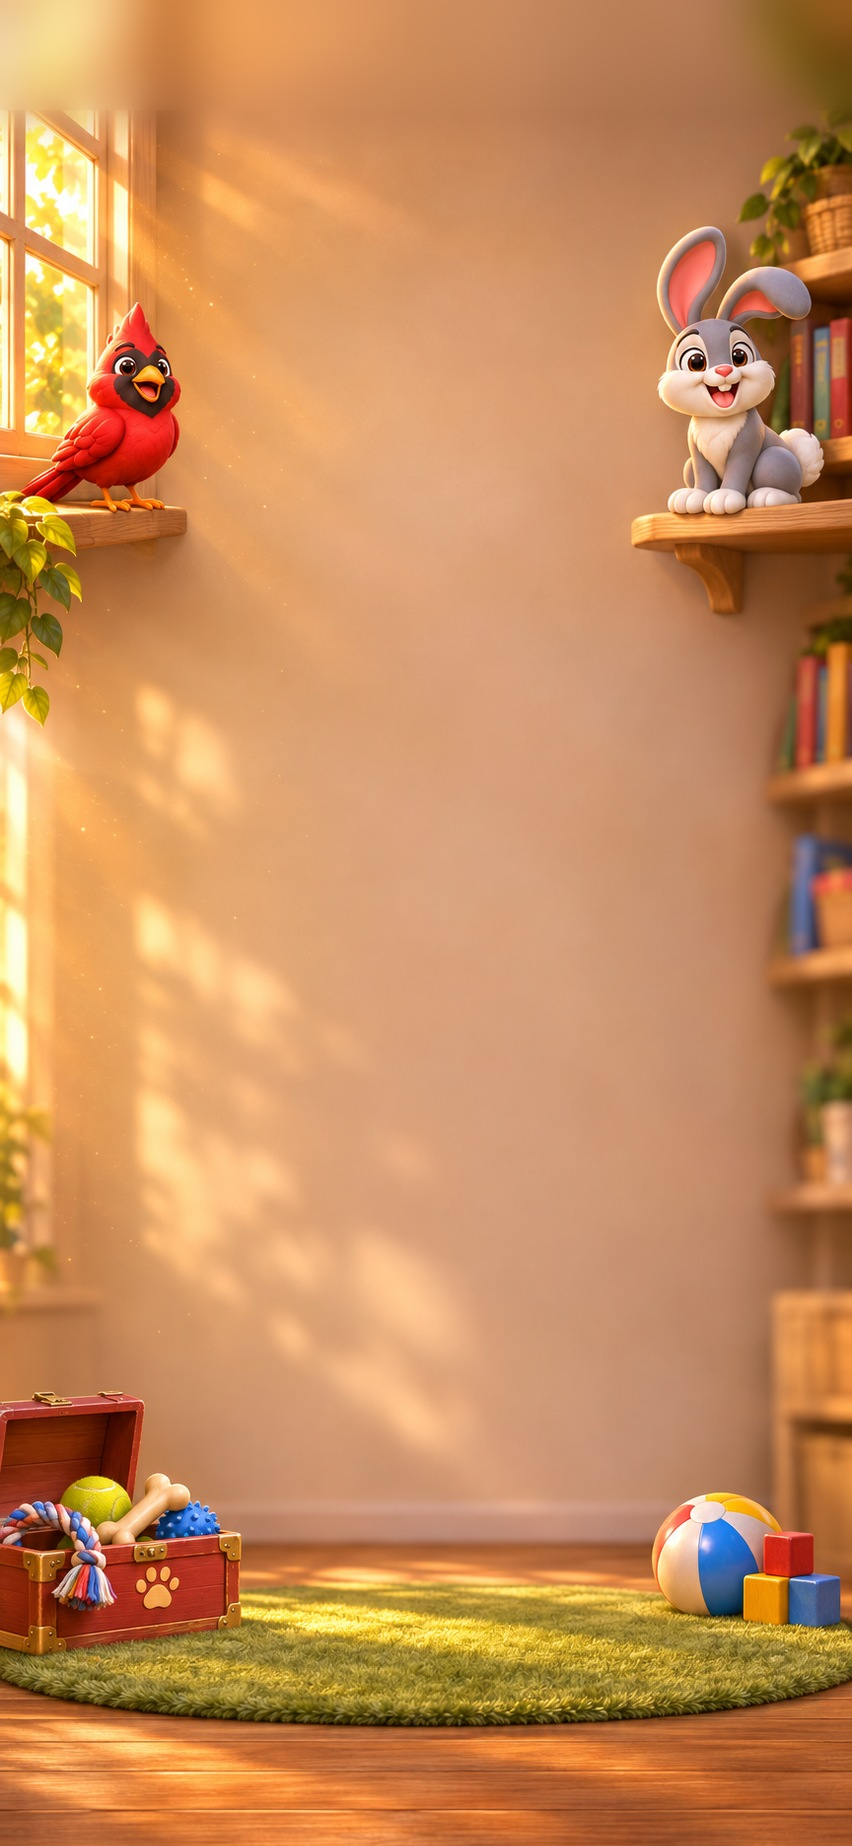
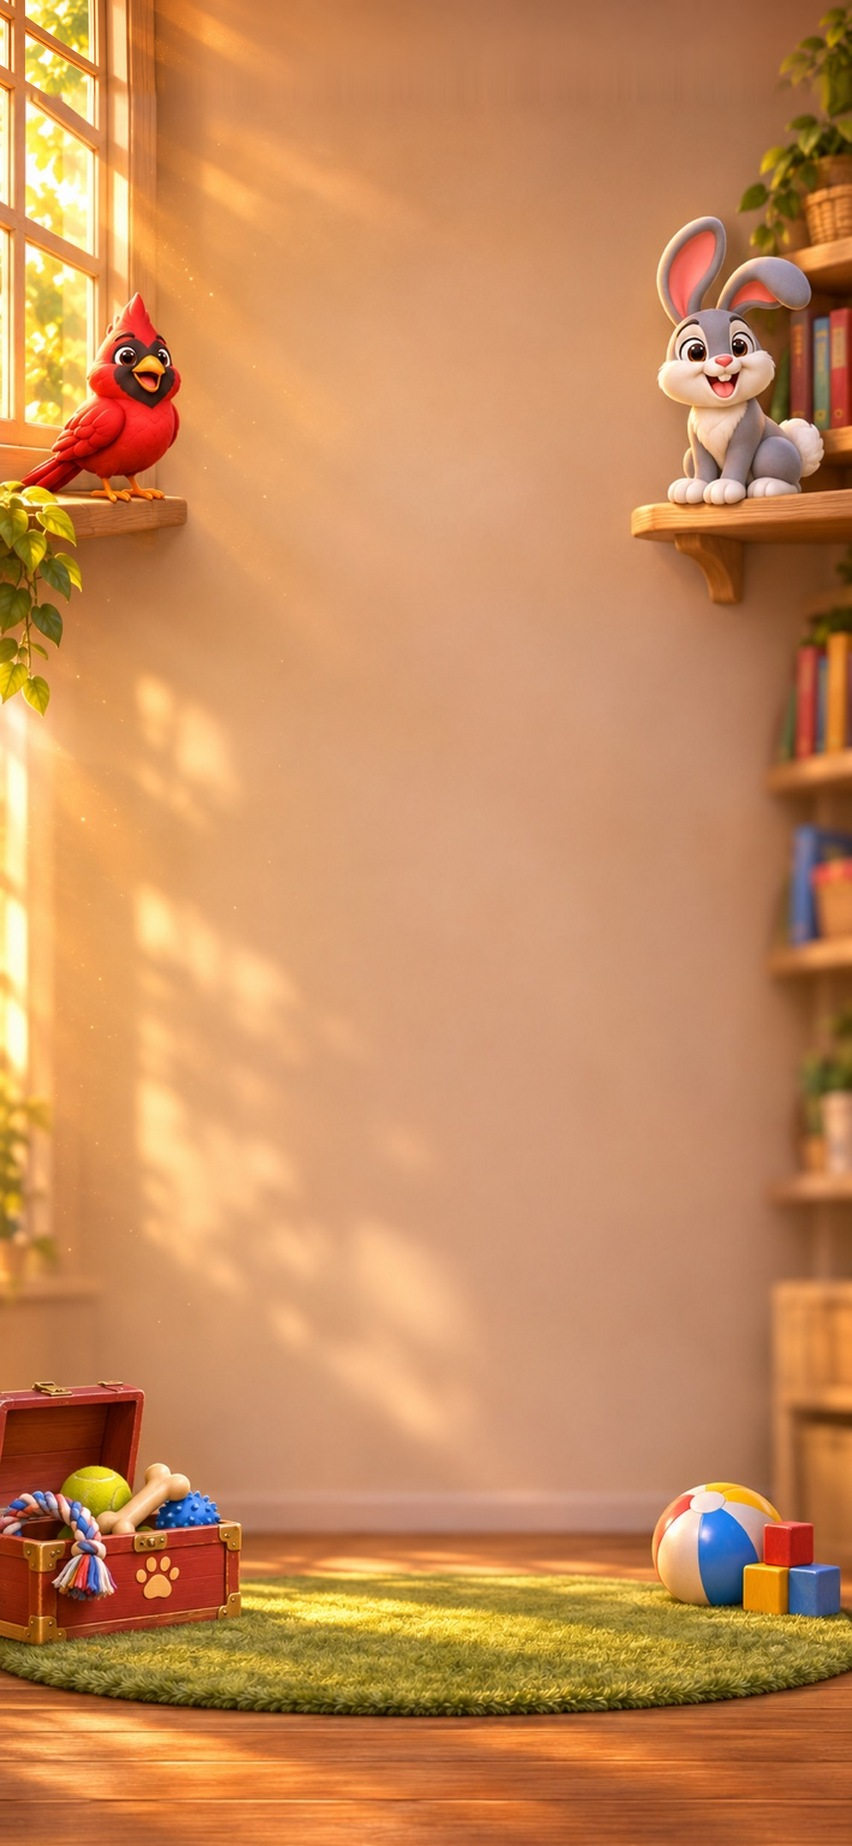
Toy Box: real extended top from ChatGPT
Claude-Session: https://claude.ai/code/session_01HqXo8oXM9XTGkWGnUkjv9K

diff --git a/bovo11/toys.html b/bovo11/toys.html
@@ -21,7 +21,7 @@ html,body{margin:0;height:100%;overflow:hidden;background:#3a2412;-webkit-user-s
 #toast.on{opacity:1;transform:translate(-50%,-50%) scale(1)}
 </style></head><body>
 <div id="bgb"></div>
-<div id="stage"><img id="bgi" src="toys/bg.jpg?v=5"><canvas id="fx"></canvas>
+<div id="stage"><img id="bgi" src="toys/bg.jpg?v=6"><canvas id="fx"></canvas>
 <img id="title" class="L" src="toys/title.webp?v=1"><img id="panel" class="L" src="toys/panel.webp?v=4"></div>
 <div id="ui"></div><div id="toast"></div>
 <script>
